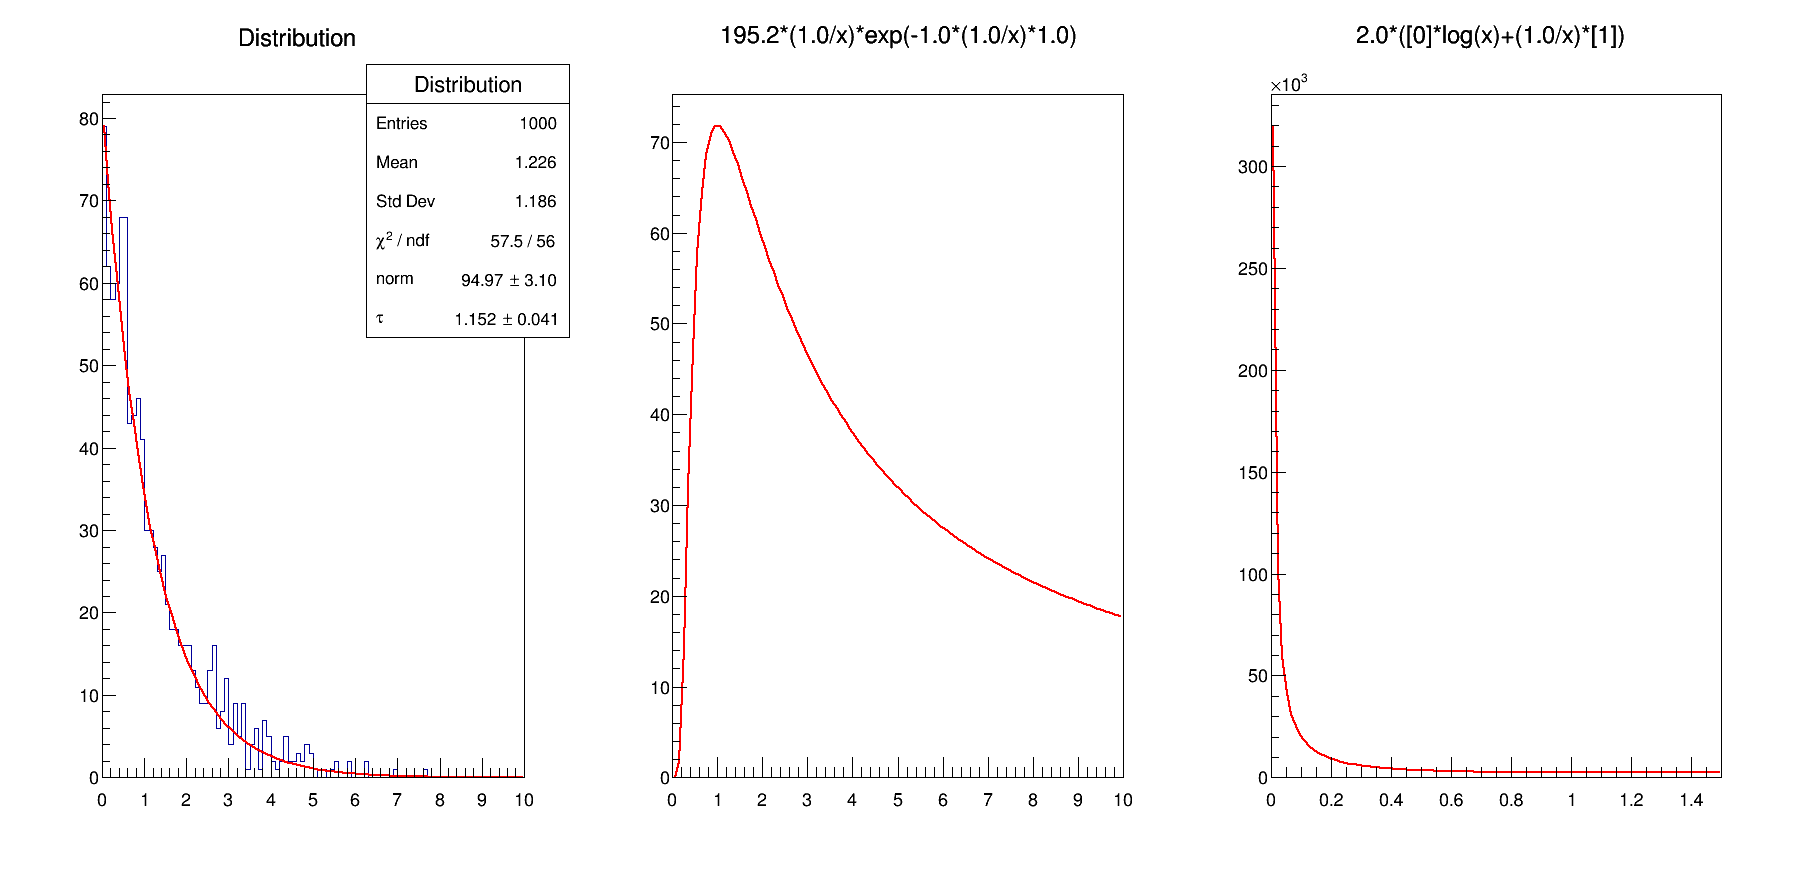
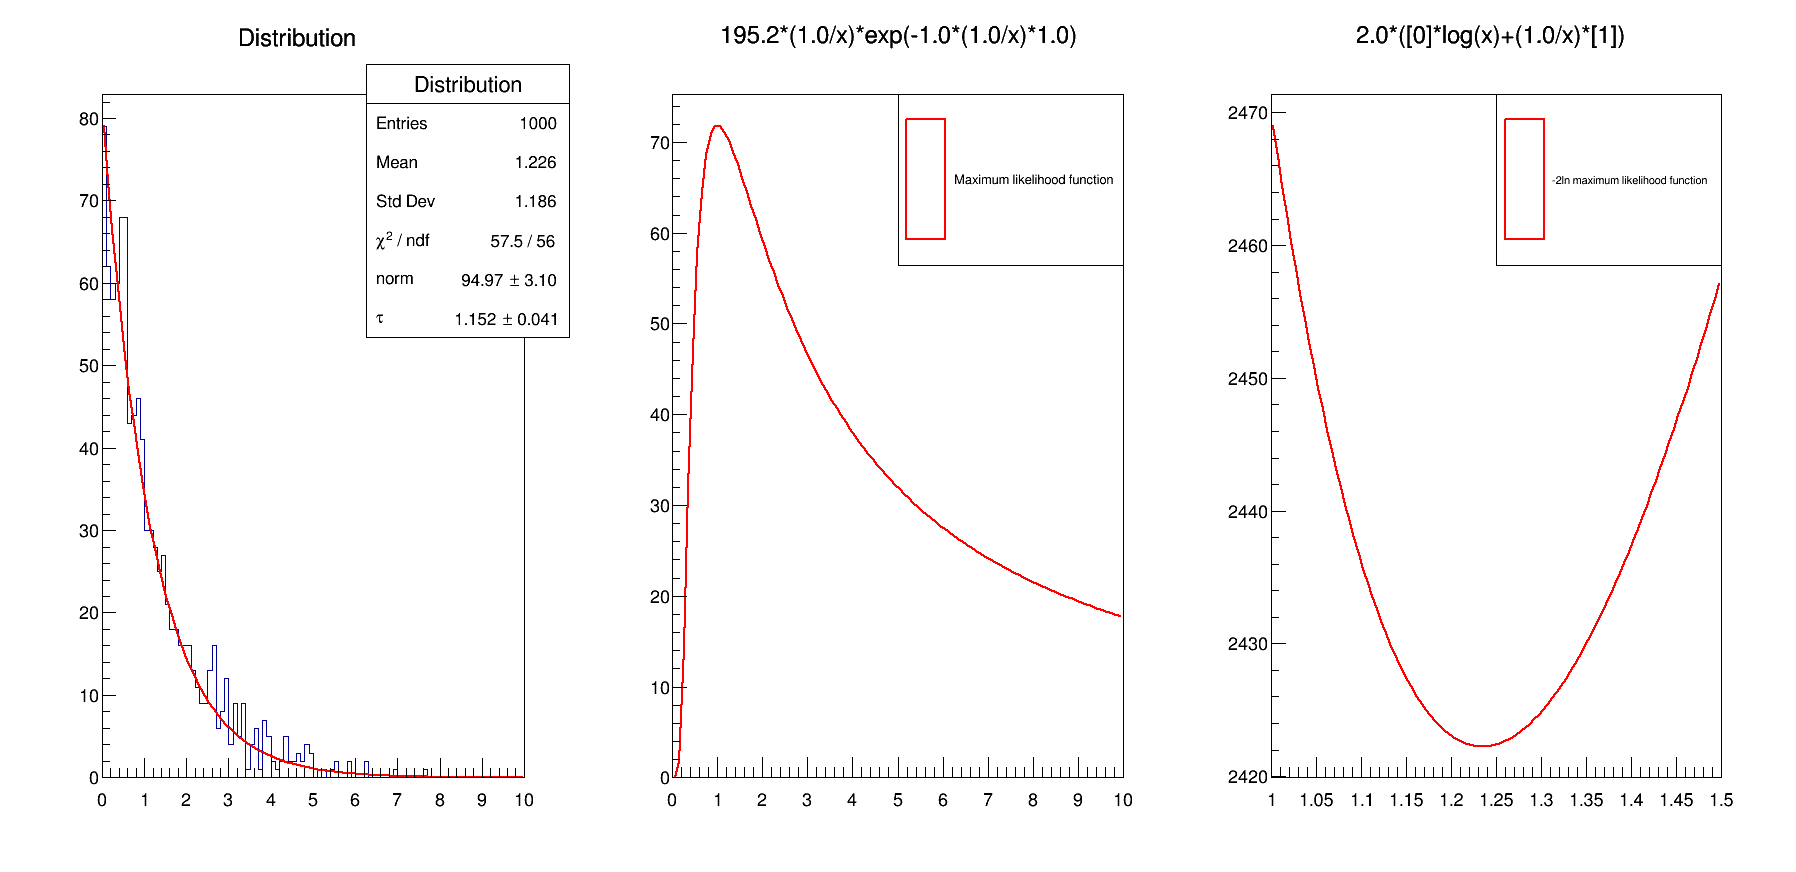
Vjezbe_9_no_task_5

diff --git a/Vjezbe_9/Analyzer.cpp b/Vjezbe_9/Analyzer.cpp
@@ -70,9 +70,8 @@ if (fChain == 0)
 	lnL->SetParName(0,"N");
 	lnL->SetParameter(1,sum);
 	lnL->SetParName(1,"sum");
-	sum=sum/nentries;
-	cout<<"Analitically, tau= "<<sum<<endl;
-	cout<<"Tau using -2lnL gives "<<lnL->GetMinimumX()<<endl;
+	cout<<"Analitically, tau= "<<sum/nentries<<endl;
+	cout<<"Tau using -2lnL gives "<<lnL->GetMinimumX(1.0,10.0)<<endl;
 }
 void Analyzer::Draw()
 {
@@ -85,8 +84,16 @@ void Analyzer::Draw()
 	distribution->Fit(fit);
 	c->cd(2);
 	MaxLike->Draw();
+	TLegend *leg=new TLegend(0.5,0.7,0.9,0.9);
+	leg->AddEntry(MaxLike, "Maximum likelihood function","f");
+	leg->SetTextSize(0.025);
+	leg->Draw();
 	c->cd(3);
 	lnL->Draw();
+	TLegend *legend=new TLegend(0.5,0.7,0.9,0.9);
+	legend->AddEntry(lnL, "-2ln maximum likelihood function","f");
+	legend->SetTextSize(0.022);
+	legend->Draw();
 	c->SaveAs("LnMaxLike.png");
 	
 	

diff --git a/Vjezbe_9/Analyzer.h b/Vjezbe_9/Analyzer.h
@@ -66,7 +66,7 @@ Analyzer::Analyzer(TTree *tree) : fChain(0)
 	distribution=new TH1F("Distribution","Distribution",100,0,10);
 	fit=new TF1("fit","[0]*(1.0/[1])*exp(-1.0*(1.0/[1])*x)",0,10);
 	MaxLike=new TF1("MaxLike","195.2*(1.0/x)*exp(-1.0*(1.0/x)*1.0)",0,10);
-	lnL=new TF1("Ln likelihood","2.0*([0]*log(x)+(1.0/x)*[1])",0,1.5);
+	lnL=new TF1("Ln likelihood","2.0*([0]*log(x)+(1.0/x)*[1])",1.0,1.5);
 }
 
 Analyzer::~Analyzer()
